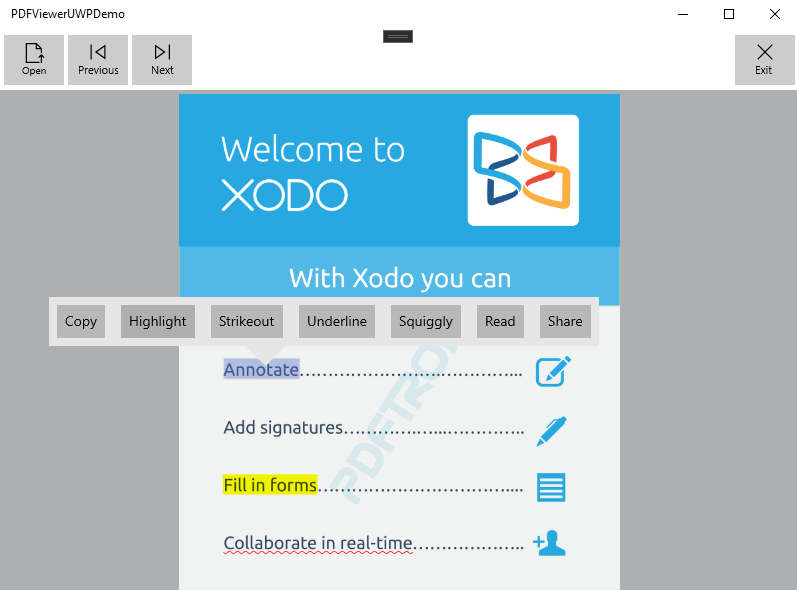
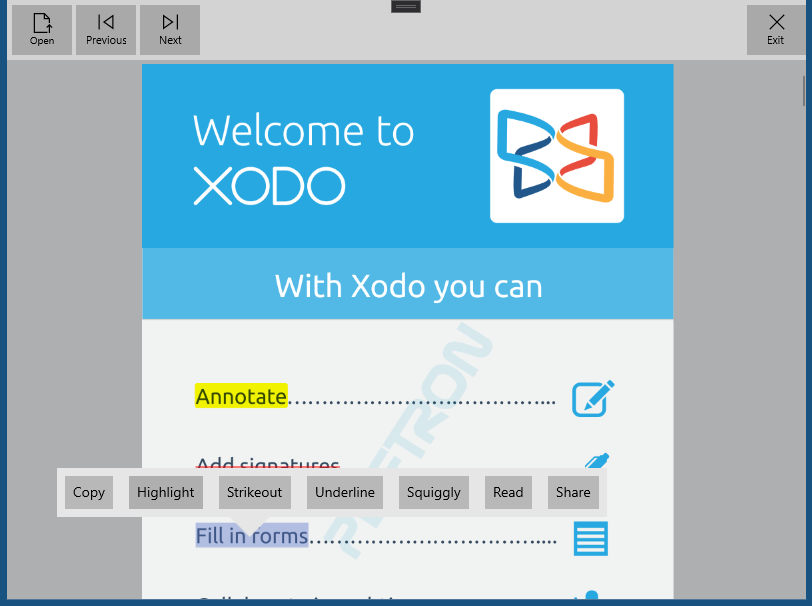
[uwp][samples] update image

diff --git a/PDFViewerUWPDemo/PDFViewerUWPDemo/MainPage.xaml b/PDFViewerUWPDemo/PDFViewerUWPDemo/MainPage.xaml
@@ -5,7 +5,7 @@
     xmlns:d="http://schemas.microsoft.com/expression/blend/2008"
     xmlns:mc="http://schemas.openxmlformats.org/markup-compatibility/2006"
     mc:Ignorable="d" Width="800" Height="600"
-    Background="{ThemeResource ApplicationPageBackgroundThemeBrush}">
+    Background="Gray">
 
     <Grid Background="{StaticResource ApplicationPageBackgroundThemeBrush}">
         <Grid.RowDefinitions>
@@ -15,10 +15,10 @@
 
         <Grid.ColumnDefinitions>
             <ColumnDefinition/>
-            <ColumnDefinition/>
+            <ColumnDefinition Width="60"/>
         </Grid.ColumnDefinitions>
 
-        <StackPanel Orientation="Horizontal">
+        <StackPanel Orientation="Horizontal" Background="LightGray">
             <StackPanel Grid.Row="0" Orientation="Horizontal" HorizontalAlignment="Left" Margin="5">
 
                 <Button Command="{Binding CMDOpenFile}" Width="60" Height="50" Margin="0 0 4 0">
@@ -44,7 +44,7 @@
             </StackPanel>
         </StackPanel>
 
-        <StackPanel Grid.Column="1" Orientation="Horizontal" HorizontalAlignment="Right">
+        <StackPanel Grid.Column="1" Orientation="Horizontal" Background="LightGray">
             <Button Command="{Binding CMDExitApplication}" Width="60" Height="50" Margin="0 0 4 0">
                 <StackPanel>
                     <SymbolIcon Symbol="Cancel" Height="20"/>
